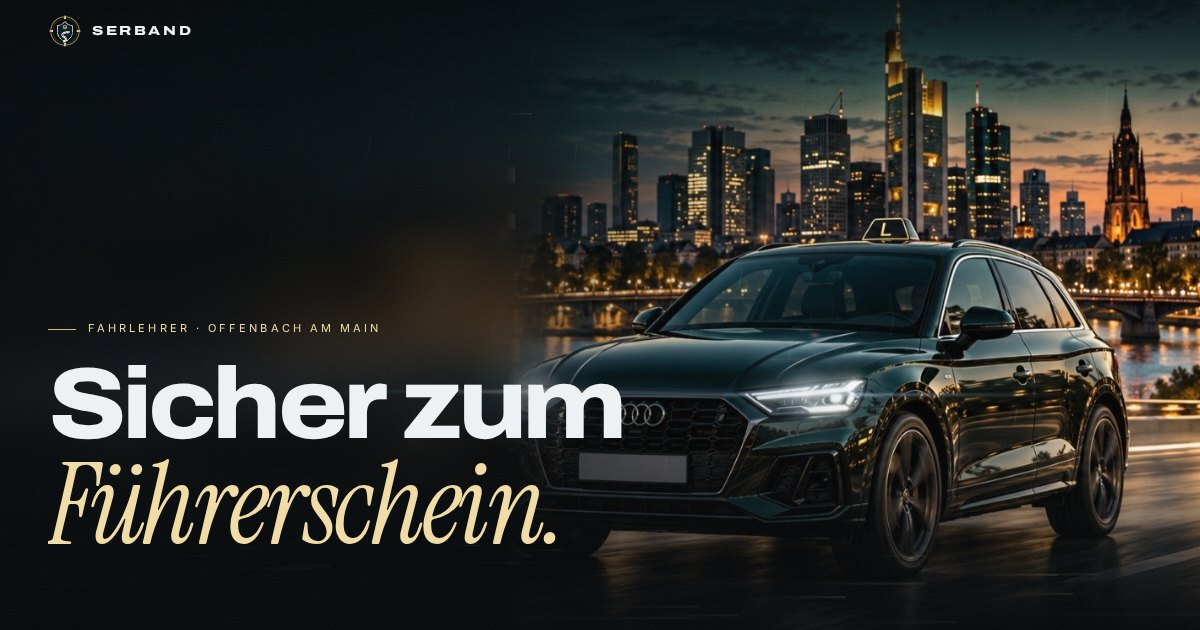
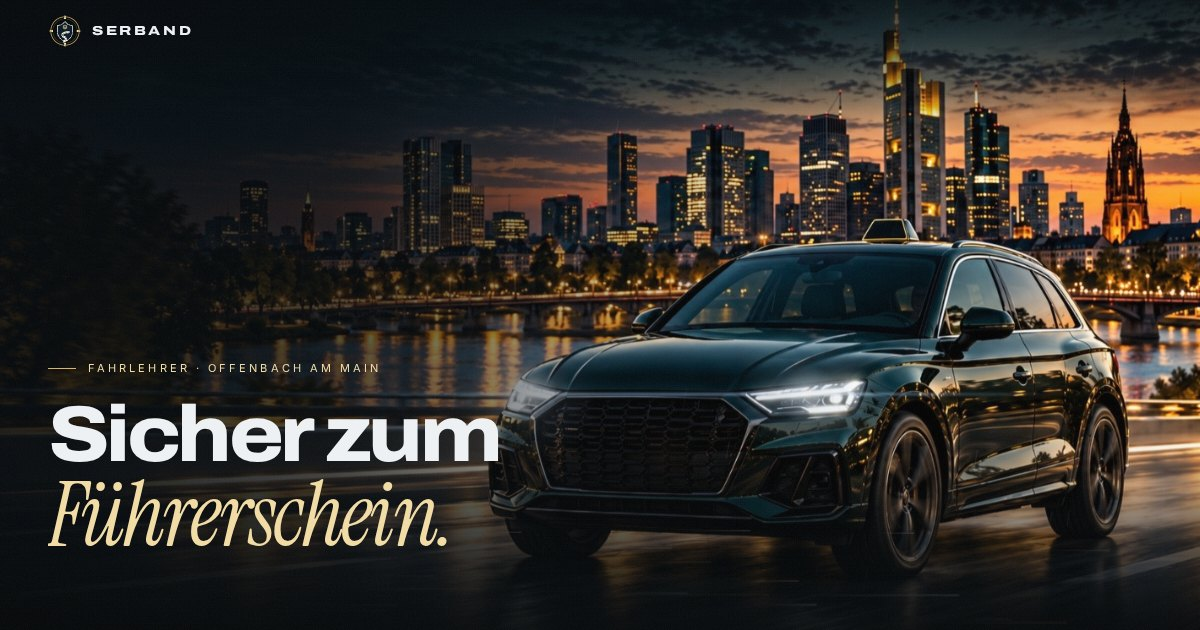
Landingpage: neue Bilder (quer und hoch) eingesetzt
Eigene Kamerafahrten für die Handy-Version, Text auf dem Handy oben im
Himmel, Scheinwerfer- und Straßenpositionen für beide Bilder.

Claude-Session: https://claude.ai/code/session_01N2NVtXAWbj4AQBnXWm3cKH

diff --git a/serband/js/cinema.js b/serband/js/cinema.js
@@ -26,6 +26,21 @@ const SHOTS = [
   { s: 1.04, u: 0.5, v: 0.5, px: 0.5, py: 0.5, dark: 0.15, fx: 1, m: { u: 0.7, v: 0.6, py: 0.3 } } // Ziel
 ];
 
+// Eigene Kamerafahrten für das Hochformat-Bild
+const SHOTS_PORTRAIT = [
+  { s: 1.0, u: 0.4, v: 0.72, px: 0.5, py: 0.72, dark: 0, fx: 1 },
+  { s: 1.2, u: 0.6, v: 0.45, px: 0.5, py: 0.4, dark: 0.5, fx: 0.2 },
+  { s: 1.4, u: 0.5, v: 0.9, px: 0.5, py: 0.5, dark: 0.55, fx: 0.9 },
+  { s: 1.1, u: 0.5, v: 0.3, px: 0.5, py: 0.5, dark: 0.6, fx: 0.3 },
+  { s: 1.4, u: 0.55, v: 0.55, px: 0.5, py: 0.45, dark: 0.55, fx: 0.2 },
+  { s: 1.8, u: 0.54, v: 0.72, px: 0.5, py: 0.35, dark: 0.4, fx: 0.7 },
+  { s: 1.6, u: 0.63, v: 0.64, px: 0.5, py: 0.35, dark: 0.5, fx: 0.3 },
+  { s: 1.3, u: 0.45, v: 0.75, px: 0.5, py: 0.45, dark: 0.5, fx: 0.8 },
+  { s: 1.7, u: 0.92, v: 0.5, px: 0.6, py: 0.4, dark: 0.5, fx: 0.2 },
+  { s: 1.1, u: 0.5, v: 0.25, px: 0.5, py: 0.5, dark: 0.7, fx: 0.3 },
+  { s: 1.0, u: 0.4, v: 0.72, px: 0.5, py: 0.72, dark: 0.25, fx: 1 }
+];
+
 export async function createCinema({ reducedMotion = false } = {}) {
   const K = CONFIG.kino;
   const stage = document.getElementById("stage");
@@ -36,17 +51,25 @@ export async function createCinema({ reducedMotion = false } = {}) {
   const ctx = fx.getContext("2d");
 
   const portraitMQ = matchMedia("(max-aspect-ratio: 9/10)");
-  if (K.bildHandy && portraitMQ.matches) img.src = K.bildHandy;
-  else img.src = K.bild;
-  try { await img.decode(); } catch (e) {}
-
-  const flares = K.scheinwerfer.map(([x, y]) => {
-    const i = document.createElement("i");
-    i.style.left = x * 100 + "%";
-    i.style.top = y * 100 + "%";
-    flareBox.append(i);
-    return i;
-  });
+  let usePortrait = false;
+  let flares = [];
+  async function chooseImage() {
+    usePortrait = !!K.bildHandy && portraitMQ.matches;
+    const src = usePortrait ? K.bildHandy : K.bild;
+    if (!img.src.endsWith(src)) {
+      img.src = src;
+      try { await img.decode(); } catch (e) {}
+    }
+    flareBox.innerHTML = "";
+    flares = (usePortrait ? K.scheinwerferHandy : K.scheinwerfer).map(([x, y]) => {
+      const i = document.createElement("i");
+      i.style.left = x * 100 + "%";
+      i.style.top = y * 100 + "%";
+      flareBox.append(i);
+      return i;
+    });
+  }
+  await chooseImage();
 
   const state = { target: 0, p: 0, speedKmh: 0, lights: 0, lightsTarget: 0, mx: 0, my: 0, smx: 0, smy: 0, running: true, fxAmt: 1 };
   let W = 0, H = 0, iw = 1, ih = 1, cover = 1, dpr = 1;
@@ -72,8 +95,9 @@ export async function createCinema({ reducedMotion = false } = {}) {
     const i = Math.min(n - 1, Math.floor(f));
     const t = smooth(f - i);
     const portrait = W / H < 0.9;
-    const get = (sh) => (portrait && sh.m ? { ...sh, ...sh.m } : sh);
-    const a = get(SHOTS[i]), b = get(SHOTS[i + 1]);
+    const list = usePortrait ? SHOTS_PORTRAIT : SHOTS;
+    const get = (sh) => (portrait && !usePortrait && sh.m ? { ...sh, ...sh.m } : sh);
+    const a = get(list[i]), b = get(list[i + 1]);
     const o = {};
     ["s", "u", "v", "px", "py", "dark", "fx"].forEach((k) => (o[k] = lerp(a[k], b[k], t)));
     return o;
@@ -92,7 +116,7 @@ export async function createCinema({ reducedMotion = false } = {}) {
     shade.style.setProperty("--dark", sh.dark.toFixed(3));
     state.fxAmt = sh.fx;
     // Sichtbarkeit des Straßenbereichs (für die Lichtstreifen) in Bildschirmkoordinaten
-    const road = K.strasse;
+    const road = usePortrait ? K.strasseHandy : K.strasse;
     state.roadTop = clamp(ty + s * road[0] * h, 0, H);
     state.roadBot = clamp(ty + s * road[1] * h, 0, H);
   }
@@ -202,7 +226,10 @@ export async function createCinema({ reducedMotion = false } = {}) {
     requestAnimationFrame(tick);
   }
 
-  window.addEventListener("resize", layout);
+  window.addEventListener("resize", async () => {
+    if (!!K.bildHandy && portraitMQ.matches !== usePortrait) await chooseImage();
+    layout();
+  });
   layout();
   applyShot(shotAt(0), 0);
   requestAnimationFrame(tick);

diff --git a/serband/css/style.css b/serband/css/style.css
@@ -69,7 +69,7 @@ img { max-width: 100%; display: block; }
   box-shadow: inset 0 0 0 100vmax rgba(4, 8, 11, var(--dark, 0));
 }
 @media (max-width: 760px) {
-  .cinema__shade { background: linear-gradient(0deg, rgba(4,8,11,.95) 0%, rgba(4,8,11,.8) 38%, rgba(4,8,11,.1) 62%, rgba(4,8,11,0) 75%), linear-gradient(180deg, rgba(4,8,11,.6), rgba(4,8,11,0) 20%); }
+  .cinema__shade { background: linear-gradient(180deg, rgba(4,8,11,.88) 0%, rgba(4,8,11,.55) 38%, rgba(4,8,11,0) 58%, rgba(4,8,11,0) 80%, rgba(4,8,11,.6) 100%); }
 }
 .bars i { position: fixed; left: 0; right: 0; height: 12vh; background: #000; z-index: 60; pointer-events: none; transform-origin: top; }
 .bars i:first-child { top: 0; }
@@ -284,7 +284,7 @@ body.is-driving .hud, body.is-driving .route { opacity: 1; }
 /* ---------- Hero ---------- */
 .hero { position: relative; min-height: 100vh; min-height: 100svh; display: flex; align-items: flex-end; padding: 0 var(--gutter) clamp(90px, 14vh, 150px); }
 .hero__content { max-width: 720px; }
-.hero__title { margin: 0; font-family: var(--display); font-weight: 800; font-stretch: 112%; font-size: clamp(52px, 8.4vw, 136px); line-height: .88; letter-spacing: -0.045em; }
+.hero__title { margin: 0; font-family: var(--display); font-weight: 800; font-stretch: 112%; font-size: clamp(52px, 6.6vw, 112px); line-height: .9; letter-spacing: -0.045em; }
 .hero__title .line { display: block; overflow: hidden; padding-bottom: .06em; }
 .hero__title .split { display: inline-block; }
 .hero__title em { font-size: 1.12em; font-stretch: 100%; color: var(--gold-soft); padding-right: .08em; letter-spacing: -0.03em; }
@@ -295,7 +295,10 @@ body.is-driving .hud, body.is-driving .route { opacity: 1; }
 .scroll-cue i::after { content: ""; position: absolute; left: 0; top: -40%; width: 100%; height: 40%; background: var(--cream); animation: cue 1.8s var(--ease) infinite; }
 @keyframes cue { to { top: 110%; } }
 @media (max-width: 760px) {
-  .hero { align-items: flex-end; padding-bottom: 60px; }
+  .hero { align-items: flex-start; padding-top: 104px; padding-bottom: 40px; }
+  .hero__title { font-size: clamp(44px, 12.5vw, 64px); }
+  .hero__lead { margin: 18px 0 22px; font-size: 16px; }
+  .hero__cta .btn { height: 48px; padding: 0 18px; font-size: 14px; }
       .scroll-cue { display: none; }
 }
 

diff --git a/serband/index.html b/serband/index.html
@@ -17,7 +17,8 @@
 <link rel="preload" href="fonts/archivo.woff2" as="font" type="font/woff2" crossorigin>
 <link rel="preload" href="fonts/inter.woff2" as="font" type="font/woff2" crossorigin>
 <link rel="stylesheet" href="css/style.css">
-<link rel="preload" href="img/hero.jpg" as="image">
+<link rel="preload" href="img/hero.jpg" as="image" media="(min-aspect-ratio: 9/10)">
+<link rel="preload" href="img/hero-mobile.jpg" as="image" media="(max-aspect-ratio: 9/10)">
 </head>
 <body class="is-loading">
 <svg width="0" height="0" style="position:absolute" aria-hidden="true"><symbol id="logo" viewBox="0 0 120 120"><circle class="mk-ring" cx="60" cy="60" r="50" pathLength="1"/><circle class="mk-ring mk-ring--in" cx="60" cy="60" r="43" pathLength="1"/><path class="mk-pts" d="M60 2l4.5 16h-9zM60 118l4.5-16h-9zM2 60l16-4.5v9zM118 60l-16-4.5v9z"/><path class="mk-shield" pathLength="1" d="M33 46V41c11-1 20-5 27-14 7 9 16 13 27 14v5 16c0 17-11 28-27 36-16-8-27-19-27-36z"/><circle class="mk-wheel" cx="60" cy="46" r="6.5" pathLength="1"/><path class="mk-wheel" pathLength="1" d="M53.5 46h13M60 46v6.5"/><path class="mk-road" pathLength="1" d="M74 64c-12 0-24 3-24 10s14 8 14 14-6 7-8 9"/><path class="mk-line" d="M74 64c-12 0-24 3-24 10s14 8 14 14-6 7-8 9"/></symbol></svg>
@@ -43,7 +44,7 @@
 
 <div class="cinema" aria-hidden="true">
   <div class="cinema__stage" id="stage">
-    <img class="cinema__img" id="stageImg" src="img/hero.jpg" alt="">
+    <img class="cinema__img" id="stageImg" alt="">
     <div class="cinema__flares" id="flares"></div>
   </div>
   <canvas class="cinema__fx" id="fx"></canvas>

diff --git a/serband/js/config.js b/serband/js/config.js
@@ -29,13 +29,14 @@ export const CONFIG = {
   },
 
   // Das große Kinobild im Hintergrund.
-  // TODO: Bild in voller Größe ohne Schrift (Querformat) und optional eine Hochformat-Version fürs Handy.
   // scheinwerfer: Position der Scheinwerfer im Bild (0 = links/oben, 1 = rechts/unten) für das Aufblenden.
   kino: {
     bild: "img/hero.jpg",
-    bildHandy: "",
-    scheinwerfer: [[0.67, 0.617], [0.445, 0.612]],
-    strasse: [0.8, 1.0], // Bereich (von oben nach unten), in dem die Lichtstreifen über die Straße ziehen
+    bildHandy: "img/hero-mobile.jpg",
+    scheinwerfer: [[0.441, 0.617], [0.67, 0.617]],
+    scheinwerferHandy: [[0.24, 0.72], [0.537, 0.72]],
+    strasse: [0.78, 1.0], // Bereich (von oben nach unten), in dem die Lichtstreifen über die Straße ziehen
+    strasseHandy: [0.8, 1.0],
     regen: true
   },
 
